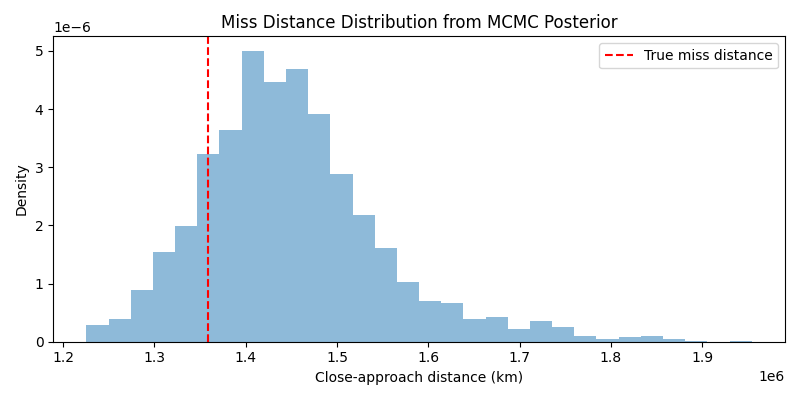
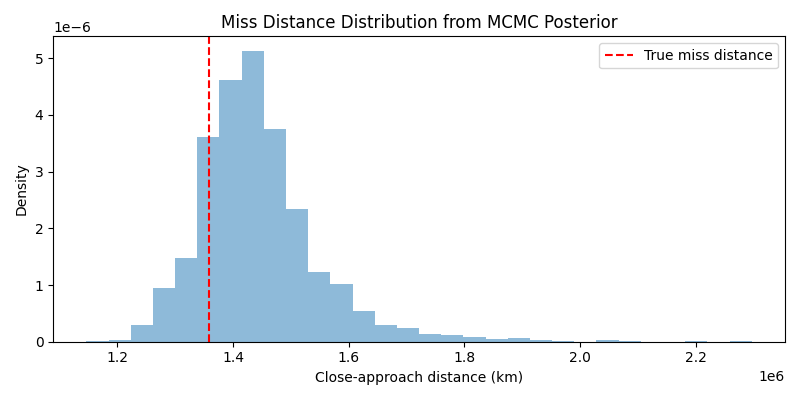
update the mcmc tutorial

diff --git a/docs/tutorials/mcmc_near_miss.rst b/docs/tutorials/mcmc_near_miss.rst
@@ -43,8 +43,8 @@ We construct an Apollo-type orbit (``a > 1 AU``, ``q < 1 AU``) with low
 inclination.  The orbital orientation is chosen so that perihelion falls
 near Earth's ecliptic longitude about 60 days after the observation epoch.
 This produces a realistic discovery scenario: the object is first seen at
-roughly 0.3 AU geocentric distance, and a genuine close approach of about
-0.04 AU occurs a few weeks later.
+roughly 0.3 AU geocentric distance, and a close approach of about 0.04 AU
+occurs a few weeks later.
 
 .. code-block:: python
 
@@ -114,7 +114,7 @@ arc with 6 total astrometric measurements -- a common situation for a newly
 discovered NEO before additional follow-up is obtained.
 
 Each observation is given 0.3 arcsecond Gaussian noise, representative of
-modern CCD astrometry.  The RA uncertainty is inflated by ``1/cos(dec)``
+imperfect astrometry.  The RA uncertainty is inflated by ``1/cos(dec)``
 to account for the convergence of right ascension lines toward the poles.
 
 .. code-block:: python
@@ -183,11 +183,12 @@ each one and pools the results, which naturally captures multi-modality.
 
 ::
 
-    IOD returned 4 candidate(s)
-      [0] a=2.513 AU, e=0.630
-      [1] a=-3.381 AU, e=1.269
-      [2] a=-0.483 AU, e=2.851
-      [3] a=-0.700 AU, e=2.807
+    IOD returned 5 candidate(s)
+      [0] a=3.583 AU, e=0.745
+      [1] a=-5.555 AU, e=1.164
+      [2] a=-0.518 AU, e=2.674
+      [3] a=-0.724 AU, e=2.250
+      [4] a=-0.653 AU, e=2.875
 
 
 4. Orbit Uncertainty Estimation
